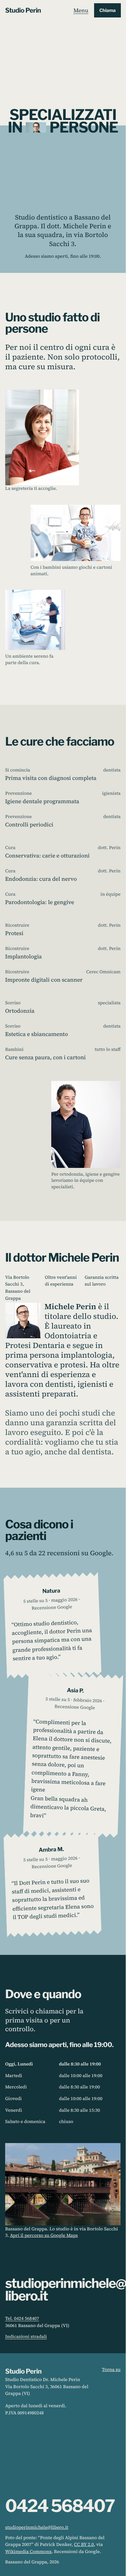
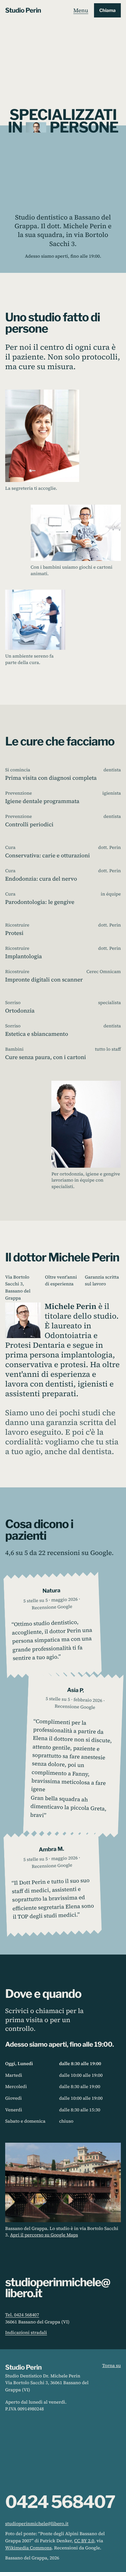
Perin: card, GIFs and Gmail draft regenerated from the fixed page and email (same draft, rewritten)
Claude-Session: https://claude.ai/code/session_01Ki1WqHTiaUergSzNF9WuyL

diff --git a/runs/2026-10-26/studio-perin/report.md b/runs/2026-10-26/studio-perin/report.md
@@ -34,4 +34,4 @@
 
 ## Bozza
 - A: studioperinmichele@libero.it. Oggetto: "Studio Dentistico Perin: un'anteprima del vostro nuovo sito".
-- Allegati: card.jpg (0.2 MB), scroll-mobile.gif (3.4 MB), scroll-desktop.gif (1.6 MB). Draft id r-2256344030578497823.
+- Allegati: card.jpg (0.2 MB), scroll-mobile.gif (3.5 MB), scroll-desktop.gif (1.7 MB). Draft id r-2256344030578497823.
